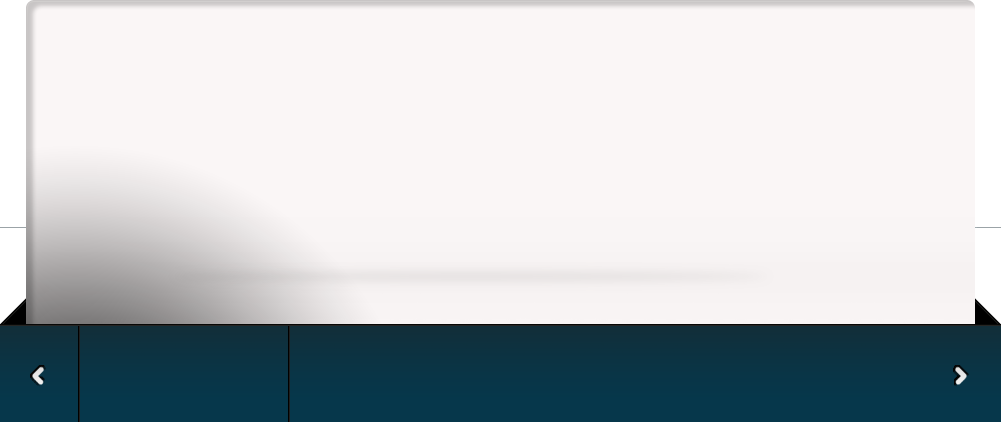
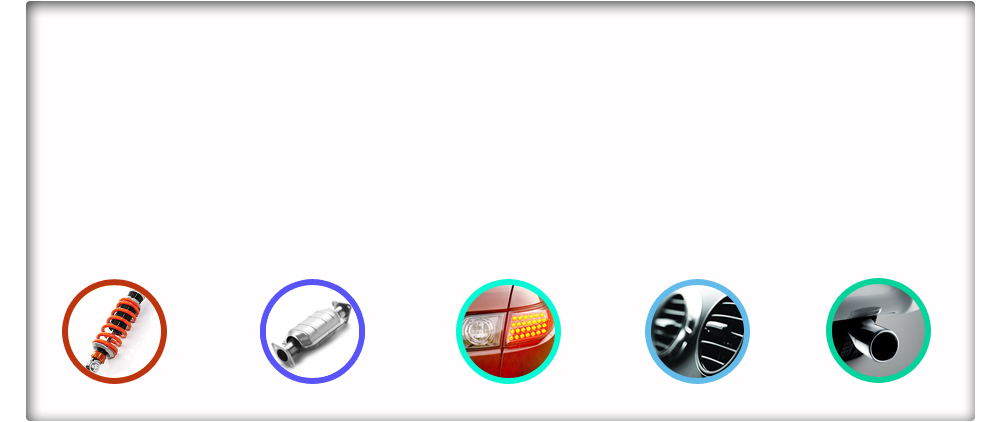
before implementation of new slide on home

diff --git a/style.css b/style.css
@@ -41,7 +41,7 @@ html { background-color: #222325; }
 body { text-align: center; line-height: 21px; font-family: Arial, Verdana, sans-serif; font-size: 12px; padding-bottom: 238px; color: #989898; }
 	body#home { padding-bottom: 145px; }
 #bg1 { background: url(images/main-bg.jpg) repeat-y top center; float: left; width: 100%; }
-#bg2 { background: url(images/footer-bg.jpg) no-repeat bottom center; float: left; width: 100%; padding-bottom: 146px; }
+#bg2 {  float: left; width: 100%; padding-bottom: 146px; }
 #wrap { background: url(images/top-bg.jpg) repeat-x top center;  }
 
 a { text-decoration: none; color: #5f5f5f; }
@@ -146,7 +146,10 @@ ul.nav { float: left; margin-top: -18px; height: 74px; }
 /*------------------------------------------------*/		
 		
 #featured-area { background: url(images/featured.png) no-repeat; position: relative; margin: 0 auto; width: 1001px; text-align: left; min-height: 424px; }
-	#feat-content { height:300px; }
+	#feat-content {
+    height: 300px;
+    margin-bottom: 96px;
+	}
 		#feat-content .slide { padding: 45px 84px 0px 86px; width: 807px; height: 255px; }
 			#feat-content .description {
     color: #484444;
@@ -172,14 +175,23 @@ ul.nav { float: left; margin-top: -18px; height: 74px; }
 					#feat-content a.readmore span, #content-area a.readmore span { display: block; background: url(images/readmore-sprite.png) top left no-repeat; padding:0px 0 0px 44px; height:50px; }
 			#feat-content img.featured_image { float: right; margin-top: 10px; }
 	
-	#control-bg { background:url("images/buttons-bg.png") repeat-x scroll 0 0 transparent; bottom:0; height:99px; left:80px; position:absolute; width:670px; }
+	#control-bg {  bottom:0; height:99px; left:80px; position:absolute; width:670px; }
 	
-	#controls { position: relative; background:url("images/active_tab_bg.png") no-repeat scroll 89px 7px transparent; padding:26px 0 0 84px; position:relative; }	
+	#controls {
+    padding: 26px 0 0 60px;
+    position: relative;
+}	
 		#controls a#prevlink, #controls a#nextlink { position: absolute; top: 26px; display: block; width: 78px; height: 97px; text-indent: -9999px; }
 		#controls a#prevlink { left: 0px; }
 		#controls a#nextlink { right: 0px; }
 		
-		a.control_tab { display: block; width: 152px; height: 75px; float: left; /*background: url(images/control-rightbg.png) repeat-y top right;*/ padding: 21px 30px 0px 26px; }
+		a.control_tab {
+    display: block;
+    float: left;
+    height: 75px;
+    padding: 21px 30px 0 26px;
+    width: 110px;
+}
 		a.control_tab.last { background: none; }
 		a.control_tab:hover { text-decoration: none; }
 			a.control_tab span.heading {

diff --git a/includes/featured-tec.php b/includes/featured-tec.php
@@ -1,0 +1,99 @@
+<?php	
+	$ids = array();
+	$arr = array();
+	$i=1;
+	
+	$width = 335;
+	$height = 220;
+	$maxSlides = 5;
+		
+	$featured_cat = esc_attr(get_option('13floor_feat_cat'));
+	$featured_num = esc_attr(get_option('13floor_featured_num'));
+	$featured_num = 5;
+	if ($featured_num > $maxSlides) $featured_num = $maxSlides;
+	
+	if (get_option('13floor_use_pages') == 'false') query_posts("showposts=$featured_num&cat=".get_catId($featured_cat));
+	else { 
+		global $pages_number;
+		
+		if (get_option('13floor_feat_pages') <> '') $featured_num = count(get_option('13floor_feat_pages'));
+		else $featured_num = $pages_number;
+		
+		if ($featured_num > $maxSlides) $featured_num = $maxSlides;
+		
+		query_posts(array
+						('post_type' => 'page',
+						'orderby' => 'menu_order',
+						'order' => 'ASC',
+						'post__in' => (array) get_option('13floor_feat_pages'),
+						'showposts' => $featured_num
+					));
+	};
+	
+	while (have_posts()) : the_post();
+			
+		$arr[$i]["title"] = truncate_title(25,false);
+		$arr[$i]["small_title_default"] = truncate_title(10,false);	
+		$arr[$i]["fulltitle"] = truncate_title(250,false);
+		
+		$arr[$i]["excerpt"] = truncate_post(430,false);
+		$arr[$i]["small_excerpt_default"] = truncate_post(45,false);
+		$arr[$i]["button_text"] = get_post_meta($post->ID, 'Button', true);
+		
+		$arr[$i]["small_title"] = get_post_meta($post->ID, 'Title', true);
+		$arr[$i]["small_excerpt"] = get_post_meta($post->ID, 'Excerpt', true);
+		
+		$arr[$i]["permalink"] = get_permalink();
+		
+		$arr[$i]["thumbnail"] = get_thumbnail($width,$height,'featured_image',$arr[$i]["fulltitle"],$arr[$i]["fulltitle"]);
+		
+		$arr[$i]["thumb"] = $arr[$i]["thumbnail"]["thumb"];		
+		$arr[$i]["use_timthumb"] = $arr[$i]["thumbnail"]["use_timthumb"];
+
+		$i++;
+		$ids[]= $post->ID;
+		
+	endwhile; wp_reset_query();	?>
+	
+	
+	<div id="featured-area">
+
+		<div id="feat-content" class="clearfix<?php if(get_option('13floor_custom_animation') == 'on') echo(' custom_animation'); ?>">
+			
+			<?php for ($i = 1; $i <= $featured_num; $i++) { ?>
+			
+				<div class="slide">
+					
+					<div class="description">
+						<h2 class="title"><a href="<?php echo($arr[$i]["permalink"]); ?>" title="<?php printf(esc_attr__('Permanent Link to %s', '13floor'), $arr[$i]["fulltitle"]) ?>"><?php echo esc_html($arr[$i]["title"]); ?></a></h2>
+						<p><?php echo($arr[$i]["excerpt"]); ?></p>
+						
+						<a href="<?php echo esc_url($arr[$i]["permalink"]); ?>" class="readmore"><span><?php if($arr[$i]["button_text"] <> '') echo esc_html($arr[$i]["button_text"]); else echo(esc_html__('Sign Up Today', '13floor')); ?></span></a>
+					</div>
+					
+					<a href="<?php echo($arr[$i]["permalink"]); ?>" title="<?php printf(esc_attr__('Permanent Link to %s', '13floor'), $arr[$i]["fulltitle"]) ?>">
+						<?php print_thumbnail($arr[$i]["thumb"], $arr[$i]["use_timthumb"], $arr[$i]["fulltitle"], $width, $height, 'featured_image'); ?>
+					</a>
+				</div> <!-- end .slide -->
+							
+			<?php }; ?>
+			
+		</div> <!-- end #feat-content -->
+		
+		<div id="control-bg"></div>
+		
+		
+		<div id="controls" class="clearfix">
+			<a href="" id="prevlink"><?php esc_html_e('Prev','13floor'); ?></a>
+			<a href="" id="nextlink"><?php esc_html_e('Next','13floor'); ?></a>
+			
+			<?php for ($i = 1; $i <= $featured_num; $i++) { ?>
+				<a class="control_tab<?php if($i == 1) echo(" active"); if($i == $maxSlides) echo(' last'); ?>" href="#">
+					<span class="heading"><?php if($arr[$i]["small_title"] <> '') echo($arr[$i]["small_title"]); else echo($arr[$i]["small_title_default"]); ?></span>
+					<span class="excerpt"><?php if($arr[$i]["small_excerpt"] <> '') echo($arr[$i]["small_excerpt"]); else echo($arr[$i]["small_excerpt_default"]); ?></span>
+				</a>
+			<?php }; ?>
+		
+		</div> <!-- end #controls -->
+				
+	</div> <!-- end #featured-area -->

diff --git a/home.php b/home.php
@@ -1,7 +1,7 @@
 <?php if(get_option('13floor_featured') == 'on') { ?>
 	<?php get_header(); ?>
 
-	<?php get_template_part('includes/featured'); ?>
+	<?php get_template_part('includes/featured-tec'); ?>
 
 	<?php get_footer(); ?>
 <?php } else { ?>
